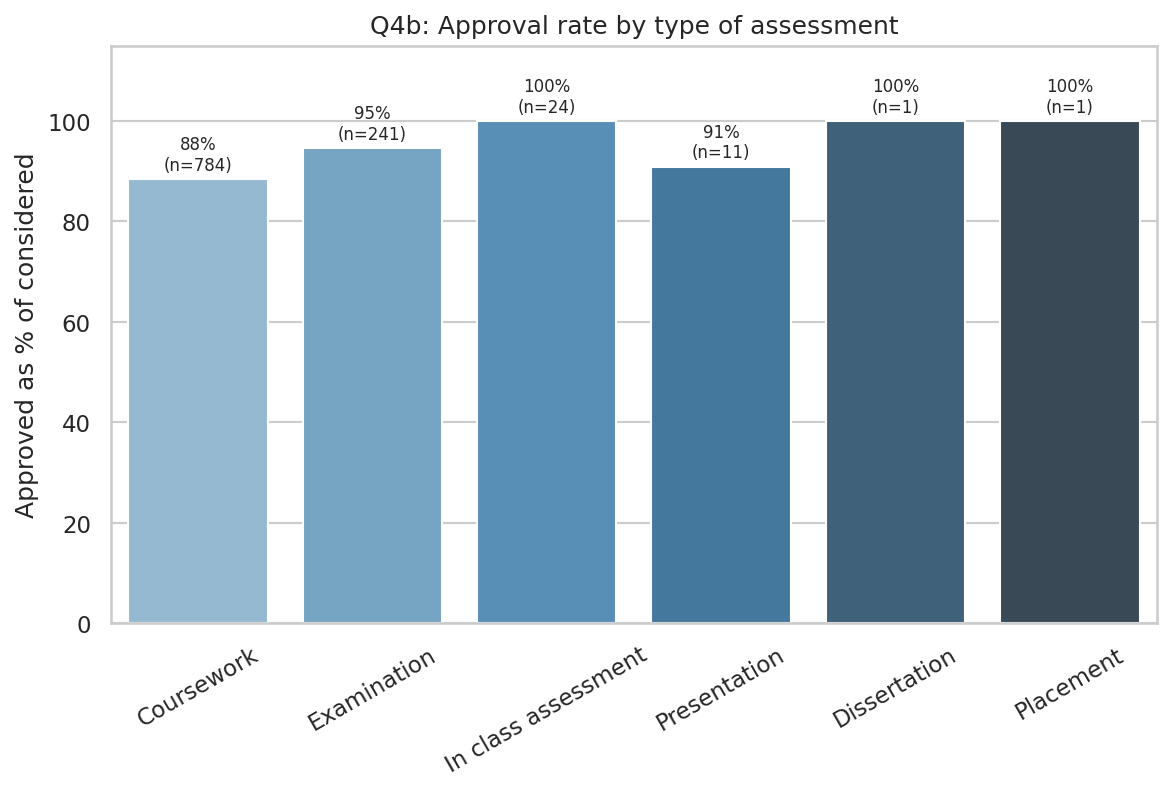
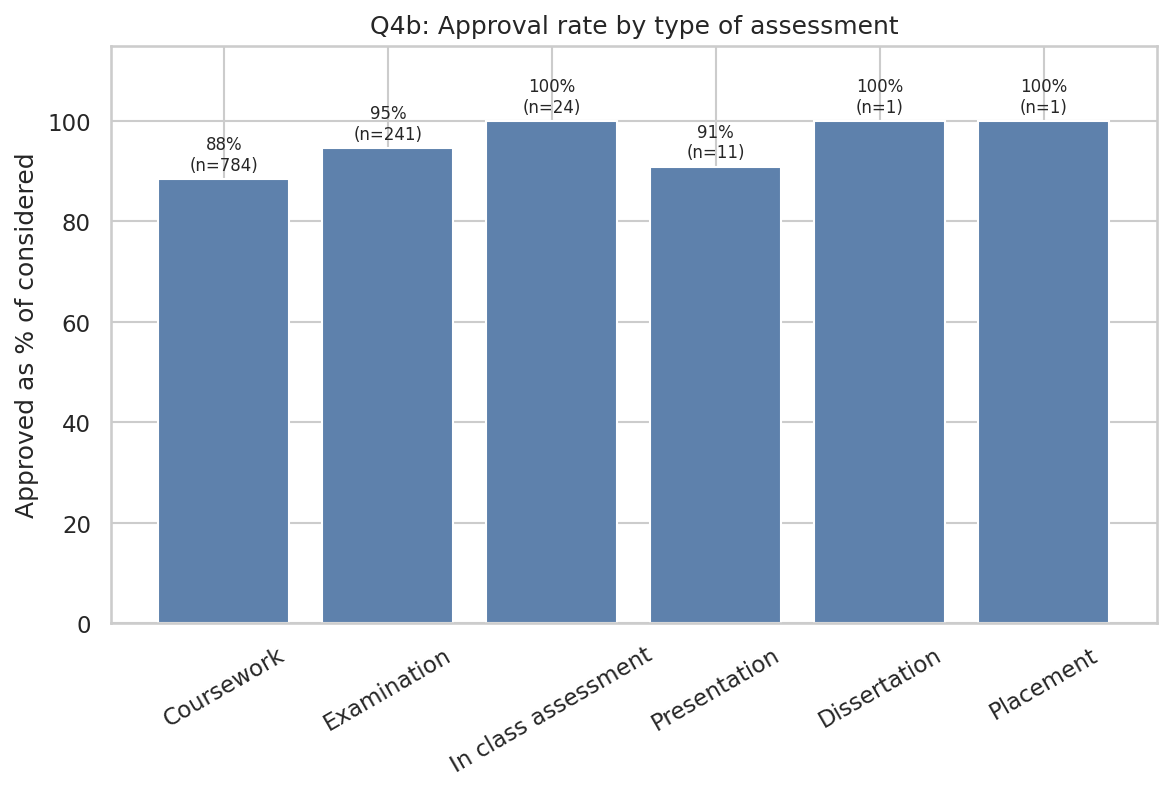
Second scruff pass - remove the last obvious AI tells
- config.py: drop the three '# ---' section dividers and the ornate
  module docstring; shrink to a one-liner
- main.py: break the column-aligned '# rebuild DB ...' comments in the
  module docstring
- plots.py: rewrite q4_approval_rate using plain Python dict-walking
  loops instead of pivot_table + wide.get + considered.replace(0, 1).
  Also drop the hue=<same column> gradient-palette trick for a plain
  solid-colour ax.bar()
- analysis.py: swap the triple-quoted multi-line SQL for plain
  space-separated string concatenation; vary the method docstring
  wordings so they don't all read like the same template

diff --git a/src/analysis.py b/src/analysis.py
@@ -1,45 +1,42 @@
 """
-analysis.py - SQL queries for the four assessment questions.
+SQL queries for the four assessment questions.
 
-One method on ECAnalyser per question. Each runs a SELECT and returns
-a pandas DataFrame so it can be plotted straight away.
+Each method on ECAnalyser runs one SELECT and returns a pandas
+DataFrame so plots.py can draw it straight away.
 """
 
 import pandas as pd
 
 
 class ECAnalyser:
-    """Run the four analytical questions against the database."""
 
     def __init__(self, db):
         self.db = db
 
     def q1_days_before_deadline(self):
-        """Q1 - days between submission and the affected assessment date.
+        """How many days before or after the deadline each claim was filed.
 
-        Negative value = submitted before deadline.
+        A negative number means the claim was filed before the deadline.
         """
-        sql = """
-            SELECT
-                claims.claim_id,
-                CAST(julianday(claims.posted_date)
-                     - julianday(claims.date_of_assessment_affected)
-                     AS INTEGER) AS days_after_deadline,
-                outcomes.category AS outcome_category
-            FROM claims
-            LEFT JOIN outcomes ON outcomes.outcome_code = claims.outcome_code
-            WHERE claims.posted_date IS NOT NULL
-              AND claims.date_of_assessment_affected IS NOT NULL
-        """
+        sql = (
+            "SELECT claims.claim_id, "
+            " CAST(julianday(claims.posted_date) "
+            "      - julianday(claims.date_of_assessment_affected) AS INTEGER)"
+            "   AS days_after_deadline, "
+            " outcomes.category AS outcome_category "
+            "FROM claims "
+            "LEFT JOIN outcomes ON outcomes.outcome_code = claims.outcome_code "
+            "WHERE claims.posted_date IS NOT NULL "
+            "  AND claims.date_of_assessment_affected IS NOT NULL"
+        )
         return self.db.read_sql(sql)
 
     def q2_top_modules(self):
-        """Q2 - top 15 modules by claim count, broken down by outcome.
+        """Find the 15 busiest modules and their outcome breakdown.
 
-        Done in two steps: first get the top 15, then for each of them
-        ask how many claims fall into each outcome category.
+        Done in two steps: one query to get the top 15 module codes,
+        then a query per module for its outcome counts.
         """
-        # Step 1: the 15 busiest modules.
         top_df = self.db.read_sql(
             "SELECT module_code, COUNT(*) AS total "
             "FROM claims "
@@ -49,9 +46,6 @@ class ECAnalyser:
             "LIMIT 15"
         )
 
-        # Step 2: outcome breakdown for each of those 15 modules.
-        # We build up a list of dicts and turn it into a DataFrame at
-        # the end.
         rows = []
         for code in top_df["module_code"]:
             cur = self.db.conn.execute(
@@ -72,37 +66,35 @@ class ECAnalyser:
         return pd.DataFrame(rows)
 
     def q3_response_time_by_month(self):
-        """Q3 - days from submission to Panel approval, by month posted."""
-        sql = """
-            SELECT
-                strftime('%Y-%m', posted_date) AS posted_month,
-                CAST(julianday(date_approved) - julianday(posted_date)
-                     AS INTEGER) AS response_days
-            FROM claims
-            WHERE posted_date IS NOT NULL
-              AND date_approved IS NOT NULL
-              AND julianday(date_approved) >= julianday(posted_date)
-            ORDER BY posted_month
-        """
+        """Panel response time (days) grouped by month of submission."""
+        sql = (
+            "SELECT strftime('%Y-%m', posted_date) AS posted_month, "
+            " CAST(julianday(date_approved) - julianday(posted_date) "
+            "      AS INTEGER) AS response_days "
+            "FROM claims "
+            "WHERE posted_date IS NOT NULL "
+            "  AND date_approved IS NOT NULL "
+            "  AND julianday(date_approved) >= julianday(posted_date) "
+            "ORDER BY posted_month"
+        )
         return self.db.read_sql(sql)
 
     def q4_outcome_by_assessment_type(self):
-        """Q4 - count of claims for each (assessment type, outcome)."""
-        sql = """
-            SELECT
-                claims.type_of_assessment,
-                outcomes.category AS outcome_category,
-                COUNT(*) AS claim_count
-            FROM claims
-            LEFT JOIN outcomes ON outcomes.outcome_code = claims.outcome_code
-            WHERE claims.type_of_assessment IS NOT NULL
-            GROUP BY claims.type_of_assessment, outcomes.category
-            ORDER BY claims.type_of_assessment, outcomes.category
-        """
+        """Count of claims grouped by assessment type and outcome."""
+        sql = (
+            "SELECT claims.type_of_assessment, "
+            " outcomes.category AS outcome_category, "
+            " COUNT(*) AS claim_count "
+            "FROM claims "
+            "LEFT JOIN outcomes ON outcomes.outcome_code = claims.outcome_code "
+            "WHERE claims.type_of_assessment IS NOT NULL "
+            "GROUP BY claims.type_of_assessment, outcomes.category "
+            "ORDER BY claims.type_of_assessment, outcomes.category"
+        )
         return self.db.read_sql(sql)
 
     def run_all(self):
-        """Run every question and return the DataFrames in a dict."""
+        """Run every question and collect the results in a dict."""
         return {
             "q1": self.q1_days_before_deadline(),
             "q2": self.q2_top_modules(),

diff --git a/src/config.py b/src/config.py
@@ -1,60 +1,27 @@
-"""
-config.py
----------
-Central place for all of the constants used by the project. Keeping the
-hard-coded paths and column names here means that if a file is renamed
-or moved, only this one file needs to change.
-"""
+"""Paths and constants used across the project."""
 
-# Standard library imports.
 from pathlib import Path
 
-# ---------------------------------------------------------------------
-# Project paths.
-# ---------------------------------------------------------------------
-# PROJECT_ROOT points at the top-level folder of the repository (the
-# parent of the src/ directory). We compute it from __file__ so the
-# code works no matter where the user runs `python` from.
+# Work out where the project root is (the folder above src/).
 PROJECT_ROOT = Path(__file__).resolve().parent.parent
 
-# Folder that holds the raw spreadsheet (git-ignored) and the SQLite DB.
 DATA_DIR = PROJECT_ROOT / "data"
-
-# Folder where generated plots are written. The REPORT.md file
-# references images here using relative paths.
 IMG_DIR = PROJECT_ROOT / "img"
-
-# Source directory (used to locate schema.sql).
 SRC_DIR = PROJECT_ROOT / "src"
 
-# ---------------------------------------------------------------------
-# File names.
-# ---------------------------------------------------------------------
-# Default name of the input spreadsheet. The trailing space before the
-# extension is preserved exactly because that is how the file is named
-# in the assessment download.
+# The spreadsheet file in the data folder (note the space in the name -
+# that's how the assessment download spells it).
 XLSX_FILENAME = "Depersonalised EC .xlsx"
-
-# Full path to the input spreadsheet.
 XLSX_PATH = DATA_DIR / XLSX_FILENAME
-
-# Path to the SQLite database file that ingestion will create.
 DB_PATH = DATA_DIR / "ec_claims.db"
-
-# Path to the schema definition.
 SCHEMA_PATH = SRC_DIR / "schema.sql"
 
-# ---------------------------------------------------------------------
-# Spreadsheet sheet names (taken from the source workbook).
-# ---------------------------------------------------------------------
+# Sheet names in the source workbook.
 SHEET_CLAIMS = "EC Claims 20-21"
 SHEET_LOOKUPS = "Data validation"
 
-# ---------------------------------------------------------------------
-# Outcome category mapping. The Quality Manual codes (column B of the
-# claims sheet) are letters A-H plus a few numeric codes. We bucket them
-# into three high-level categories so plots can colour by category.
-# ---------------------------------------------------------------------
+# The "Outcome" column uses single-letter / single-digit codes. Bucket
+# them into three higher-level categories for plotting.
 OUTCOME_CATEGORY = {
     "A": "Rejected",
     "B": "Rejected",
@@ -63,9 +30,9 @@ OUTCOME_CATEGORY = {
     "E": "Rejected",
     "F": "Rejected",
     "G": "Approved",
-    "H": "Approved",   # provisionally approved, deferred to exam board
-    "4": "Other",      # not considered - claim out of time
-    "5": "Other",      # not considered - evidence out of time
-    "6": "Other",      # not eligible - after exam board
-    "7": "Other",      # max periods exceeded
+    "H": "Approved",
+    "4": "Other",
+    "5": "Other",
+    "6": "Other",
+    "7": "Other",
 }

diff --git a/src/plots.py b/src/plots.py
@@ -151,36 +151,40 @@ def plot_q4_volume(df):
 
 
 def plot_q4_approval_rate(df):
-    """Q4b - approval % for each type of assessment."""
-    wide = df.pivot_table(
-        index="type_of_assessment",
-        columns="outcome_category",
-        values="claim_count",
-        fill_value=0,
-    )
-    # Approval rate ignores "Other" (not considered at all).
-    approved = wide.get("Approved", 0)
-    rejected = wide.get("Rejected", 0)
-    considered = approved + rejected
-    safe_denom = considered.replace(0, 1)
-    approval_pct = (approved / safe_denom) * 100
+    """Bar chart of the approval rate for each type of assessment."""
+    # Work out approval % per assessment type using plain Python on the
+    # DataFrame rather than a pivot_table trick.
+    types = sorted(df["type_of_assessment"].unique())
+    labels = []
+    percents = []
+    counts = []
+    for t in types:
+        approved = 0
+        rejected = 0
+        sub = df[df["type_of_assessment"] == t]
+        for _, row in sub.iterrows():
+            if row["outcome_category"] == "Approved":
+                approved += int(row["claim_count"])
+            elif row["outcome_category"] == "Rejected":
+                rejected += int(row["claim_count"])
+        considered = approved + rejected
+        if considered == 0:
+            continue
+        labels.append(t)
+        percents.append(100 * approved / considered)
+        counts.append(considered)
 
-    plot_df = approval_pct.reset_index()
-    plot_df.columns = ["type_of_assessment", "approval_pct"]
-    plot_df["n_considered"] = considered.values
-    plot_df = plot_df.sort_values("n_considered", ascending=False)
+    # Sort biggest-first by sample size.
+    order = sorted(range(len(labels)), key=lambda i: counts[i], reverse=True)
+    labels = [labels[i] for i in order]
+    percents = [percents[i] for i in order]
+    counts = [counts[i] for i in order]
 
     fig, ax = plt.subplots(figsize=(9, 5))
-    sns.barplot(
-        data=plot_df, x="type_of_assessment", y="approval_pct",
-        hue="type_of_assessment", palette="Blues_d",
-        legend=False, ax=ax,
-    )
-    # Label each bar with the % and the sample size.
-    for i in range(len(plot_df)):
-        pct = plot_df["approval_pct"].iloc[i]
-        n = int(plot_df["n_considered"].iloc[i])
-        ax.text(i, pct + 1, f"{pct:.0f}%\n(n={n})",
+    ax.bar(labels, percents, color="#5e81ac", edgecolor="white")
+    for i in range(len(labels)):
+        ax.text(i, percents[i] + 1,
+                f"{percents[i]:.0f}%\n(n={counts[i]})",
                 ha="center", va="bottom", fontsize=8)
     ax.set_ylim(0, 115)
     ax.set_title("Q4b: Approval rate by type of assessment")

diff --git a/src/main.py b/src/main.py
@@ -1,10 +1,9 @@
 """
-main.py - run the whole pipeline.
+Runs the whole pipeline end to end.
 
-Usage (from the project root):
-    python src/main.py              # rebuild DB and regenerate plots
-    python src/main.py --skip-db    # just redo the plots
-    python src/main.py --skip-plots # just load the data
+From the project root:
+    python src/main.py
+Use --skip-db to only redo the plots, or --skip-plots to only load data.
 """
 
 import argparse
